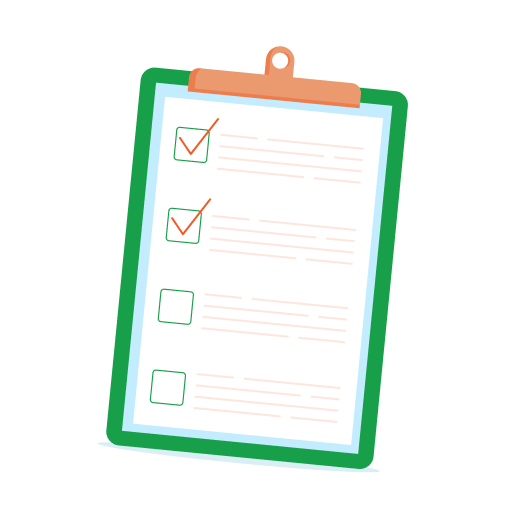
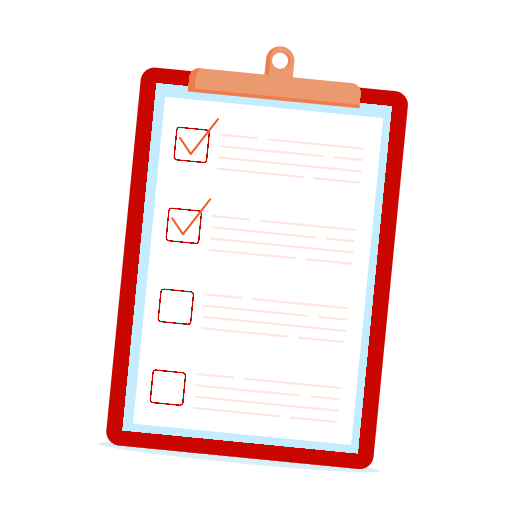
update color

diff --git a/src/pages/survey.jsx b/src/pages/survey.jsx
@@ -5,6 +5,9 @@ import BottomHome from '../icons/bottom-home.svg?react';
 import { useNavigate } from "react-router-dom";
 import { userState } from "../state";
 import { useRecoilValue } from "recoil";
+import banner from "../images/banner.jpg"
+import MainHeader from "../components/main-header";
+
 
 export  const SurveyPage = () => {
   const [rating, setRating] = useState(0);
@@ -63,16 +66,19 @@ if (loading) {
   );
 }
   return (
+    
     <Page className="page bg-primary !p-0 relative overflow-x-hidden">
+        <MainHeader title="Khảo sát"/>
         <div className='bg-white overflow-x-hidden px-3 w-full'>
-          <div className="w-full h-2">
+          {/* <div className="w-full h-2">
             <div className="absolute top-0 left-0">
               <HeaderHome />
             </div>
-          </div>
+          </div> */}
+         
 
-          <div className={"mt-5 pt-5 mx-auto"}>
-            <svg className={"mx-auto"} width="169" height="169" viewBox="0 0 169 169" fill="none" xmlns="http://www.w3.org/2000/svg">
+          <div className={"mt-1 pt-1 mx-auto"}>
+            {/* <svg className={"mx-auto"} width="169" height="169" viewBox="0 0 169 169" fill="none" xmlns="http://www.w3.org/2000/svg">
               <path d="M138.467 18.9642C116.47 19.3106 25.8366 19.4991 3.16694 19.2109C1.82086 19.194 1.71861 16.8999 3.11202 16.8999C26.4805 16.9286 107.263 16.4833 138.424 17.1534C139.923 17.1838 139.516 18.9473 138.467 18.9642Z" fill="#F15A24"/>
               <path d="M111.475 84.8503C109.957 85.5055 108.344 85.9143 106.698 86.0612C106.856 87.9963 106.835 89.9418 106.635 91.8731C106.614 91.9773 106.556 92.0705 106.472 92.1362C106.388 92.2018 106.284 92.2357 106.177 92.2319C106.071 92.228 105.969 92.1867 105.89 92.1152C105.812 92.0436 105.761 91.9465 105.746 91.841C105.588 90.5202 105.958 89.0897 105.692 86.1262C103.715 86.1795 102.789 85.5669 101.052 85.3311C96.7343 84.7414 92.584 83.2687 88.86 81.0047C88.7493 80.9199 88.6765 80.7949 88.6574 80.6569C88.6382 80.5188 88.6743 80.3787 88.7577 80.267C92.5786 75.601 95.5168 70.2775 97.4283 64.5576C97.6539 63.9112 98.4017 63.0425 98.4051 64.1554C98.4144 67.0081 98.0814 69.8591 98.0814 72.7161C98.0814 77.901 98.2192 83.4476 103.271 84.7506C106.368 85.5474 109.252 84.5368 111.169 84.0247C111.624 83.8988 111.962 84.6145 111.475 84.8503Z" fill="#F15A24"/>
               <path d="M104.162 73.7565C103.719 74.6142 105.229 74.5128 106.134 74.5559C106.248 74.5654 106.355 74.6151 106.436 74.6961C106.517 74.7771 106.567 74.8843 106.577 74.9985C106.586 75.1128 106.555 75.2267 106.489 75.3202C106.422 75.4136 106.325 75.4805 106.214 75.509C105.615 75.5895 105.007 75.5551 104.422 75.4076C103.376 75.1905 102.577 74.8051 103.147 73.6331C103.515 72.842 103.933 72.0752 104.399 71.3373C104.456 71.2479 104.544 71.1824 104.646 71.1529C104.747 71.1235 104.857 71.1321 104.953 71.1772C105.049 71.2223 105.125 71.3008 105.167 71.3981C105.21 71.4953 105.215 71.6047 105.183 71.7057C104.895 72.4141 104.554 73.0997 104.162 73.7565Z" fill="#F15A24"/>
@@ -100,14 +106,17 @@ if (loading) {
               <path d="M134.889 92.556C135.103 90.7342 134.912 85.8805 134.92 83.0404C134.92 82.0214 133.963 82.3957 133.929 82.8224C133.725 86.0641 133.717 89.315 133.903 92.5577C133.941 93.0419 134.833 93.0342 134.889 92.556Z" fill="#17A049"/>
               <path d="M137.917 142.533C132.874 141.941 122.414 141.293 115.622 141.181C115.622 137.281 111.892 114.986 109.519 113.121C107.246 111.335 64.1235 111.002 62.3431 114.389C60.0024 118.847 63.8708 146.466 66.007 147.196C69.4825 148.379 135.541 148.182 138.423 147.956C139.93 147.842 140.145 142.792 137.917 142.533ZM75.6544 115.781C73.1498 116.043 70.7534 116.389 68.2555 116.755C66.0932 117.072 65.9402 117.525 65.7053 119.6C65.4076 122.065 65.2648 124.545 65.2778 127.027C65.2778 127.555 64.5097 127.694 64.4395 127.138C64.1162 124.29 64.1378 121.413 64.5037 118.57C64.7454 116.704 65.4332 115.866 67.2922 115.486C70.0409 114.931 72.8468 114.711 75.6484 114.83C75.7622 114.847 75.8663 114.904 75.9417 114.991C76.0172 115.077 76.0591 115.188 76.0598 115.303C76.0605 115.418 76.02 115.53 75.9456 115.617C75.8712 115.705 75.7679 115.763 75.6544 115.781ZM86.6951 134.649C84.908 134.987 82.9721 134.02 82.2749 131.294C81.6691 128.928 82.7819 127.143 84.7474 126.64C89.4541 125.437 91.1736 133.793 86.6951 134.649Z" fill="#F15A24"/>
               <path d="M135.554 78.2352C127.519 70.2728 132.309 59.1095 127.17 53.7074C126.198 52.6597 124.885 51.9912 123.466 51.8209C122.047 51.6507 120.614 51.9898 119.422 52.7779C115.463 46.3399 107.388 44.7817 100.513 46.9238C93.0206 49.2585 90.336 58.4056 96.3507 61.3496C99.5026 62.8926 110.568 63.0235 114.027 62.3535C114.304 65.218 115.376 67.9482 117.121 70.2365C117.3 70.4519 117.55 70.7502 117.848 70.49C118.169 70.2001 118.547 69.9802 118.959 69.8442C119.37 69.7082 119.804 69.6591 120.235 69.6999C120.666 69.7408 121.084 69.8707 121.463 70.0814C121.841 70.2922 122.171 70.5792 122.432 70.9243C122.673 71.2796 122.841 71.6789 122.926 72.0993C123.012 72.5197 123.014 72.9529 122.932 73.374C122.85 73.7951 122.685 74.1958 122.447 74.5531C122.21 74.9104 121.904 75.2172 121.548 75.456C120.514 76.1396 119.777 76.0399 118.62 75.9816C118.257 75.9639 118.19 76.2672 118.165 76.5444C117.808 80.57 117.411 85.1634 118.026 89.167C118.042 89.2781 118.1 89.3787 118.189 89.4473C118.278 89.516 118.39 89.5472 118.501 89.5345C118.613 89.5217 118.715 89.4659 118.786 89.379C118.857 89.292 118.892 89.1808 118.882 89.069C118.89 87.984 118.85 86.899 118.814 85.8132C124.471 86.4461 131.635 83.1371 135.571 79.354C136.195 78.7617 135.749 78.4279 135.554 78.2352ZM105.118 50.6916C103.738 50.6668 102.373 50.9768 101.14 51.5949C99.7704 52.2523 97.445 53.8866 97.6013 55.6002C97.6478 56.114 96.9093 56.4283 96.7174 55.8985C95.7922 53.3449 98.3677 51.3499 100.085 50.4128C101.614 49.5781 103.328 49.1381 105.07 49.1326C107.299 49.1351 106.379 50.7448 105.118 50.6916Z" fill="#F15A24"/>
-            </svg>
-
+            </svg> */}
+          <img src = {banner}
+            alt= "banner"
+            className='object-cover h-[15%] w-full rounded-2xl'
+          />
           </div>
 
     <main className="min-h-screen flex items-start justify-center p-6">
       <div className="w-full max-w-sm bg-white rounded-2xl shadow-sm ring-1 ring-black/5 p-6">
         {/* Title */}
-        <h1 className="text-center text-2xl font-semibold text-emerald-600">Khảo sát</h1>
+        <h1 className="text-center text-2xl font-semibold text-primary">Khảo sát</h1>
 
         {/* Rating */}
         <div className="mt-6">
@@ -135,7 +144,7 @@ if (loading) {
                     className="h-8 w-8 drop-shadow-sm"
                     fill={filled ? "currentColor" : "none"}
                     stroke={filled ? "currentColor" : "#cbd5e1" /* slate-300 */}
-                    color={filled ? "#16a34a" : undefined /* emerald-600 when filled */}
+                    color={filled ? "#ca0600" : undefined /* emerald-600 when filled */}
                     strokeWidth={1.5}
                   >
                     <path
@@ -157,7 +166,7 @@ if (loading) {
             value={note}
             onChange={(e) => setNote(e.target.value)}
             placeholder="Chương trình rất tuyệt vời"
-            className="w-full rounded-xl border border-slate-300 bg-white px-4 py-3 text-sm placeholder:text-slate-400 shadow-sm focus:outline-none focus:ring-2 focus:ring-emerald-200 focus:border-emerald-300"
+            className="w-full rounded-xl border border-slate-300 bg-white px-4 py-3 text-sm placeholder:text-slate-400 shadow-sm focus:outline-none focus:ring-2 focus:ring-[#ca0600] focus:border-[#ca0600]"
           />
         </div>
 
@@ -165,7 +174,7 @@ if (loading) {
         <button
           type="button"
           disabled={rating === 0 || loading}
-          className= {loading ? "opacity-50 cursor-not-allowed" : "mt-6 w-full rounded-xl bg-emerald-600 px-4 py-3 text-white font-medium disabled:opacity-50 disabled:cursor-not-allowed hover:bg-emerald-700 transition-colors"}
+          className= {loading ? "opacity-50 cursor-not-allowed" : "mt-6 w-full rounded-xl bg-primary px-4 py-3 text-white font-medium disabled:opacity-50 disabled:cursor-not-allowed hover:bg-emerald-700 transition-colors"}
           onClick={() => handleSurvey()}
         >
           Xác thực

diff --git a/src/pages/index.jsx b/src/pages/index.jsx
@@ -1,7 +1,7 @@
 import React, { Suspense, useEffect } from "react";
 import { Box, Page, Spinner } from "zmp-ui";
 import UserCard from "../components/user-card";
-import HeaderHome from "../icons/header-home.svg?react";
+import HeaderHome from '../icons/header-home.svg?react';
 import FeatureCard from "../components/feature-card";
 import { useNavigate } from "react-router-dom";
 import { useRecoilValue } from "recoil";
@@ -35,6 +35,7 @@ const HomePage = () => {
       <div className="w-full h-16">
         <div className="absolute top-0 left-0">
           <HeaderHome />
+          {/* <img className="w-full rounded-xl h-32 object-fill" src={HeaderHome} /> */}
         </div>
       </div>
 
@@ -44,8 +45,8 @@ const HomePage = () => {
         </div>
       </Suspense>
 
-      <div className="section-container relative !mb-0" onClick={() => navigate("/qr-checkin")}>
-        <img className="w-full rounded-xl" src={QrCard} />
+      <div className="section-container relative !mb-0 h-32" onClick={() => navigate("/qr-checkin")}>
+        <img className="w-full rounded-xl h-32 object-fill" src={QrCard} />
         <span className="absolute inset-1/2 left-6 font-bold text-white text-xl">Mã QR Checkin</span>
       </div>
 
@@ -53,7 +54,7 @@ const HomePage = () => {
         <h5 className="font-bold text-gray text-lg">Danh sách chức năng</h5>
         <div className="mt-4 grid grid-cols-2 gap-4">
           <FeatureCard index={1} imgSrc={HistoryImg} title="Tài liệu" href="/document" />
-          <FeatureCard index={2} imgSrc={HistoryImg} title="Khảo sát" href="/survey" primary />
+          <FeatureCard index={2} imgSrc={HistoryImg} title="Khảo sát" href="/survey" />
         </div>
       </div>
     </Page>

diff --git a/src/css/app.scss b/src/css/app.scss
@@ -29,7 +29,7 @@ body {
 }
 
 .zaui-bottom-navigation-item-active .home-bottom {
-  color: #17A049;
+  color: #ca0600;
 }
 
 .zaui-bottom-navigation-content {
@@ -50,10 +50,10 @@ body {
 
 body {
   --zaui-safe-area-inset-bottom: 10px;
-  --zaui-light-input-border-color: #17A049;
-  --zaui-light-button-primary-background: #17A049;
+  --zaui-light-input-border-color: #ca0600;
+  --zaui-light-button-primary-background: #ca0600;
   --zaui-light-input-hover-border-color: #1ab653;
-  --zaui-light-picker-option-selected-color: #17A049;
+  --zaui-light-picker-option-selected-color: #ca0600;
 }
 
 .feature-card-wrapper {
@@ -96,7 +96,7 @@ body {
       color: #FFFFFF;
     }
 
-    color: #17A049;
+    color: #ca0600;
 
     &.index-primary {
       color: #F15A24;
@@ -105,7 +105,7 @@ body {
   }
 
   .title {
-    color: #17A049;
+    color: #ca0600;
     font-weight: bold;
   }
 }
@@ -115,26 +115,26 @@ body {
 }
 
 .color-primary {
-  color: #17A049;
+  color: #ca0600;
 }
 
 @import "zaui-tokens/variables.css";
 
 .text-primary {
-  color: #17A049;
+  color: #ca0600;
 }
 
 .border-primary {
-  border: 1px solid #17A049;
+  border: 1px solid #ca0600;
 }
 
 .bg-primary {
-  background-color: #17A049;
+  background-color: #ca0600;
 }
 
 .qr-code-card {
   background: white;
-  color: #17A049;
+  color: #ca0600;
   padding: 10px;
   filter: drop-shadow(3px 3px 17.9px rgba(152, 152, 155, 0.25));
 }
@@ -163,6 +163,6 @@ body {
 }
 
 .zaui-picker-title {
-  color: #17A049;
+  color: #ca0600;
   font-weight: bold;
 }

diff --git a/src/pages/register.jsx b/src/pages/register.jsx
@@ -7,6 +7,10 @@ import { useNavigate } from 'react-router';
 import HeaderHome from '../icons/header-home.svg?react';
 import BottomHome from '../icons/bottom-home.svg?react';
 import HomePage from '../pages/index.jsx'
+import logo from "../images/logo.jpg"
+import banner from "../images/banner.jpg"
+
+
 
 const RegisterPage = () => {
   const [fullName, setFullName] = useState('');
@@ -104,12 +108,26 @@ const RegisterPage = () => {
     <Page className="page bg-primary !p-0 relative overflow-x-hidden">
       <div className="bg-white overflow-x-hidden px-3 w-full">
         <div className="w-full h-2">
-          <div className="absolute top-0 left-0">
+          {/* <div className="absolute top-0 left-0">
             <HeaderHome />
-          </div>
+          </div> */}
+           <div className="absolute top-0 left-2">
+                      {/* <HeaderHome /> */}
+                      <img src={logo}
+                        alt="panadol-logo"
+                        className='object-contain h-20 w-20'
+                      />
+                    </div>
         </div>
 
-        <div className="mt-20 text-center">
+        <div className='p-4 mt-16'>
+          <img src = {banner}
+            alt= "banner"
+            className='object-cover h-[15%] w-full rounded-2xl'
+          />
+        </div>
+
+        <div className="mt-2 text-center">
           <h1 className={'font-bold font-20 text-primary'}>ĐIỀN THÔNG TIN</h1>
         </div>
 

diff --git a/src/pages/login.jsx b/src/pages/login.jsx
@@ -6,6 +6,9 @@ import RegisterPage from './register';
 import {useState} from 'react'
 import { useSetRecoilState } from "recoil";
 import { tokenState, userState } from "../state";
+import logo from "../images/logo.jpg"
+import banner from "../images/banner.jpg"
+
 
 const LoginPage = () => {
   const [phone, setPhone] = useState('');
@@ -83,14 +86,27 @@ const LoginPage = () => {
 
   return (
     <Page className="page bg-primary !p-0 relative overflow-x-hidden">
-      <div className="bg-white overflow-x-hidden px-3 w-full">
+      
+      <div className="bg-white overflow-x-hidden px-3 w-full">        
         <div className="w-full h-2">
-          <div className="absolute top-0 left-0">
-            <HeaderHome />
+          <div className="absolute top-0 left-2">
+            {/* <HeaderHome /> */}
+            <img src={logo}
+              alt="panadol-logo"
+              className='object-contain h-20 w-20'
+            />
           </div>
         </div>
 
-        <div className="mt-20 text-center">
+
+        <div className='p-4 mt-16'>
+          <img src = {banner}
+            alt= "banner"
+            className='object-cover h-[15%] w-full rounded-2xl'
+          />
+        </div>
+        
+        <div className="mt-2 text-center">
           <h1 className={'font-bold font-20 text-primary'}>ĐIỀN SỐ ĐIỆN THOẠI</h1>
         </div>
 

diff --git a/src/components/main-header.jsx b/src/components/main-header.jsx
@@ -4,8 +4,8 @@ import { Icon } from 'zmp-ui';
 
 const MainHeader = ({ title }) => {
   return <div className="w-full relative">
-    <img src={MainHeaderImg} />
-    <h4 className='absolute bottom-0 -translate-x-1/2 text-sm sm:text-xl left-1/2 font-bold text-white mb-2'>{title}</h4>
+    <img className="h-16 w-full" src={MainHeaderImg} />
+    <h4 className='absolute bottom-2 -translate-x-1/2 text-sm sm:text-xl left-1/2 font-bold text-white mb-2'>{title}</h4>
     {/* <button><Icon icon='zi-arrow-left'></Icon></button> */}
   </div>;
 };

diff --git a/src/pages/document.tsx b/src/pages/document.tsx
@@ -31,7 +31,7 @@ if (loading) {
     
     <div className="w-full max-w-md p-6">
         {/* Header title */}
-        <h3 className="text-sm font-semibold text-emerald-600 mb-3">Tài liệu về chương trình</h3>
+        <h3 className="text-sm font-semibold text-primary mb-3">Tài liệu về chương trình</h3>
 
         {/* Card */}
         <div className="rounded-xl bg-white shadow-sm ring-1 ring-black/5 p-4">
